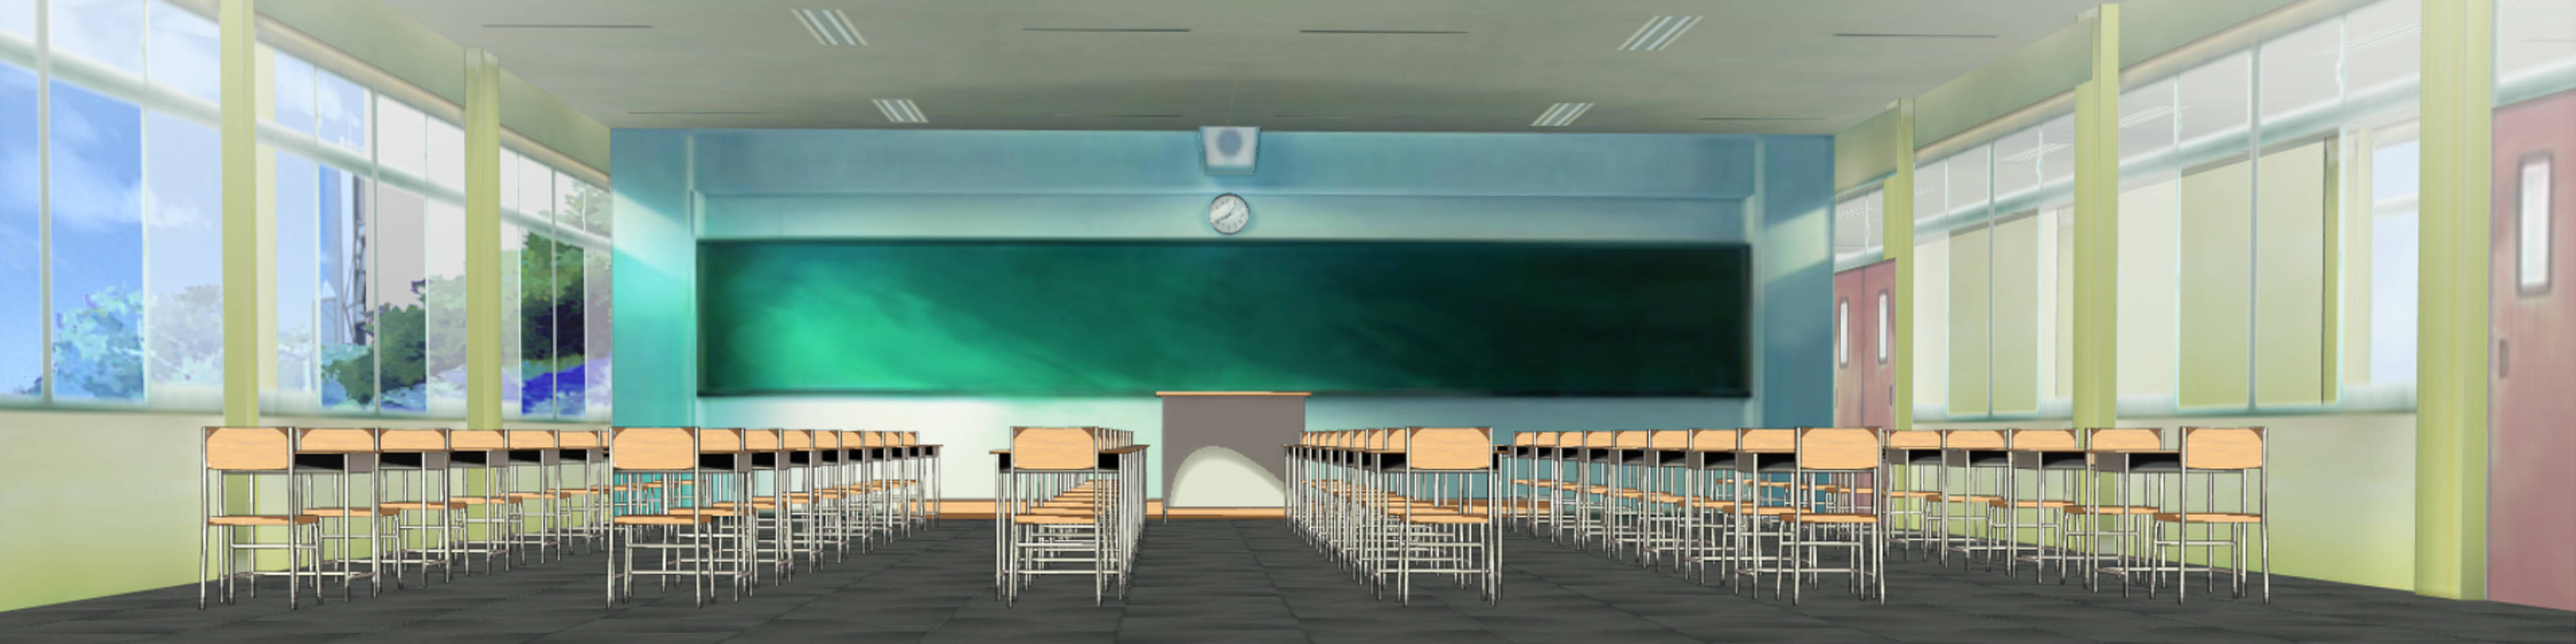
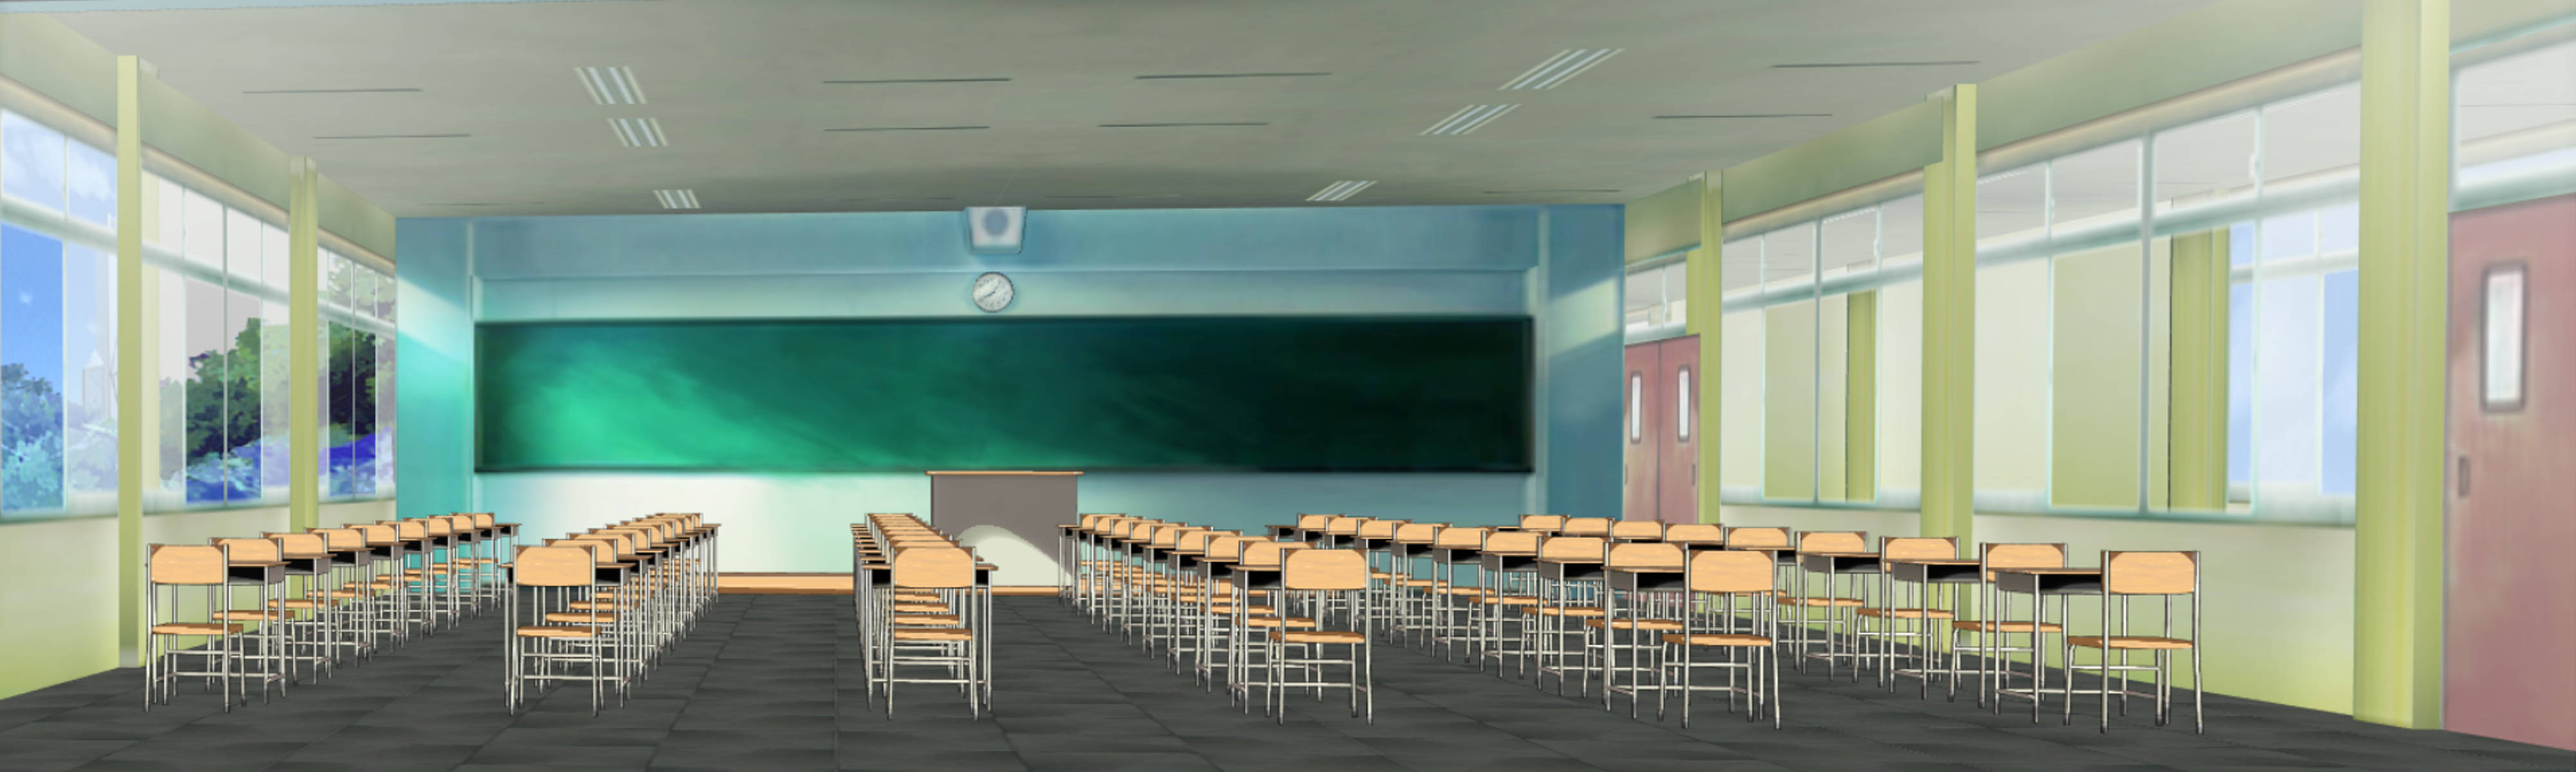
Platforms Test - Multiple Rooms
Platforms Test - Multiple Rooms

diff --git a/BondageClub/Screens/Room/Platform/Platform.js b/BondageClub/Screens/Room/Platform/Platform.js
@@ -1,12 +1,12 @@
 "use strict";
-//var PlatformBackground = "";
 var PlatformChar = [];
 var PlatformPlayer = null;
 var PlatformLastTime = null;
 var PlatformKeys = [];
-var PlatformFloor = 980;
+var PlatformFloor = 1180;
 var PlatformViewX = 0;
-var PlatformViewY = 0;
+var PlatformViewY = 200;
+var PlatformRoom = null;
 
 // Template for characters with their animations
 var PlatformTemplate = [
@@ -14,7 +14,7 @@ var PlatformTemplate = [
 		Name: "Kara",
 		Status: "Nude",
 		Health: 20,
-		HitBox: [-75, -475, 75, 0],
+		HitBox: [-60, -475, 120, 475],
 		Animation: [
 			{ Name: "Idle", Width: 250, Height: 500, Cycle: ["Idle0", "Idle1", "Idle2", "Idle3", "Idle2", "Idle1"], Speed: 500 },
 			{ Name: "Wounded", Width: 500, Height: 500, Cycle: ["Wounded0", "Wounded1", "Wounded2", "Wounded1"], Speed: 1000 },
@@ -22,19 +22,19 @@ var PlatformTemplate = [
 			{ Name: "Jump", Width: 250, Height: 500, Cycle: ["Jump0", "Jump1", "Jump2", "Jump3", "Jump2", "Jump1"], Speed: 250 },
 			{ Name: "Crouch", Width: 250, Height: 500, Cycle: ["Crouch0", "Crouch1", "Crouch2", "Crouch3", "Crouch2", "Crouch1"], Speed: 400 },
 			{ Name: "Crawl", Width: 500, Height: 500, Cycle: ["Crawl0", "Crawl1", "Crawl2", "Crawl3", "Crawl2", "Crawl1"], Speed: 300 },
-			{ Name: "Punch", Width: 500, Height: 500, Cycle: ["Punch0", "Punch1", "Punch2", "Punch3", "Punch3", "Punch3", "Punch3", "Punch2", "Punch1", "Punch0"], Speed: 50 },
-			{ Name: "Sweep", Width: 500, Height: 500, Cycle: ["Sweep0", "Sweep1", "Sweep2", "Sweep3", "Sweep3", "Sweep3", "Sweep3", "Sweep2", "Sweep1", "Sweep0"], Speed: 50 }
+			{ Name: "Punch", Width: 500, Height: 500, Cycle: ["Punch0", "Punch1", "Punch2", "Punch3", "Punch3", "Punch3", "Punch3", "Punch2", "Punch1", "Punch0"], Speed: 40 },
+			{ Name: "Sweep", Width: 500, Height: 500, Cycle: ["Sweep0", "Sweep1", "Sweep2", "Sweep3", "Sweep3", "Sweep3", "Sweep3", "Sweep2", "Sweep1", "Sweep0"], Speed: 60 }
 		], 
 		Attack: [
-			{ Name: "Punch", HitX: 150, HitY: -350, Animation: ["Punch3"], Damage: 2 },
-			{ Name: "Sweep", HitX: 225, HitY: -140, Animation: ["Sweep3"], Damage: 3 }
+			{ Name: "Punch", HitBox: [135, -365, 30, 30], Animation: "Punch3", Damage: 2, Speed: 400, Stand: true },
+			{ Name: "Sweep", HitBox: [190, -150, 55, 30], Animation: "Sweep3", Damage: 3, Speed: 600, Crouch: true }
 		]
 	},
 	{
 		Name: "Liane",
 		Status: "School",
 		Health: 20,
-		HitBox: [-75, -475, 75, 0],
+		HitBox: [-60, -475, 120, 475],
 		Animation: [
 			{ Name: "Idle", Width: 250, Height: 500, Cycle: ["Idle0", "Idle1", "Idle2", "Idle3", "Idle2", "Idle1"], Speed: 500 },
 			{ Name: "Wounded", Width: 500, Height: 500, Cycle: ["Wounded0", "Wounded1", "Wounded2", "Wounded1"], Speed: 1000 },
@@ -42,17 +42,68 @@ var PlatformTemplate = [
 			{ Name: "Jump", Width: 250, Height: 500, Cycle: ["Jump0", "Jump1", "Jump2", "Jump3", "Jump2", "Jump1"], Speed: 250 },
 			{ Name: "Crouch", Width: 250, Height: 500, Cycle: ["Crouch0", "Crouch1", "Crouch2", "Crouch3", "Crouch2", "Crouch1"], Speed: 400 },
 			{ Name: "Crawl", Width: 500, Height: 500, Cycle: ["Crawl0", "Crawl1", "Crawl2", "Crawl3", "Crawl2", "Crawl1"], Speed: 300 },
-			{ Name: "Punch", Width: 500, Height: 500, Cycle: ["Punch0", "Punch1", "Punch2", "Punch3", "Punch3", "Punch3", "Punch3", "Punch2", "Punch1", "Punch0"], Speed: 50 },
-			{ Name: "Sweep", Width: 500, Height: 500, Cycle: ["Sweep0", "Sweep1", "Sweep2", "Sweep3", "Sweep3", "Sweep3", "Sweep3", "Sweep2", "Sweep1", "Sweep0"], Speed: 50 }
+			{ Name: "Punch", Width: 500, Height: 500, Cycle: ["Punch0", "Punch1", "Punch2", "Punch3", "Punch3", "Punch3", "Punch3", "Punch2", "Punch1", "Punch0"], Speed: 40 },
+			{ Name: "Sweep", Width: 500, Height: 500, Cycle: ["Sweep0", "Sweep1", "Sweep2", "Sweep3", "Sweep3", "Sweep3", "Sweep3", "Sweep2", "Sweep1", "Sweep0"], Speed: 60 }
 		],
 		Attack: [
-			{ Name: "Punch", HitX: 150, HitY: -350, Animation: "Punch3", Damage: 2 },
-			{ Name: "Sweep", HitX: 225, HitY: -140, Animation: "Sweep3", Damage: 3 }
+			{ Name: "Punch", HitBox: [135, -365, 30, 30], Animation: "Punch3", Damage: 2, Speed: 400, Stand: true },
+			{ Name: "Sweep", HitBox: [190, -150, 55, 30], Animation: "Sweep3", Damage: 3, Speed: 600, Crouch: true }
 		]
 	}
 ];
 
-function PlatformCreateCharacter(TemplateName, IsPlayer, X, Y) {
+// All available rooms
+var PlatformRoomList = [
+	{
+		Name: "Class",
+		Background: "CollegeClassWide",
+		Width: 4000,
+		Height: 1200,
+		Door: [
+			{ Name: "Hall", FromX: 3800, FromY: 500, FromW: 200, FromH: 700, ToX: 100, ToFaceLeft: false }
+		],
+		Character: [
+			{ Name: "Liane", X: 2500 }
+		]
+	},
+	{
+		Name: "Hall",
+		Background: "CollegeHallWide",
+		Width: 3500,
+		Height: 1200,
+		Door: [
+			{ Name: "Class", FromX: 0, FromY: 500, FromW: 300, FromH: 700, ToX: 3900, ToFaceLeft: true },
+			{ Name: "Art", FromX: 3200, FromY: 500, FromW: 300, FromH: 700, ToX: 100, ToFaceLeft: false }
+		],
+		Character: [
+			{ Name: "Liane", X: 1400 },
+			{ Name: "Liane", X: 2100 }
+		]
+	},
+	{
+		Name: "Art",
+		Background: "CollegeArtWide",
+		Width: 4000,
+		Height: 1200,
+		Door: [
+			{ Name: "Hall", FromX: 0, FromY: 500, FromW: 200, FromH: 700, ToX: 3900, ToFaceLeft: true }
+		],
+		Character: [
+			{ Name: "Liane", X: 1700 },
+			{ Name: "Liane", X: 2700 },
+			{ Name: "Liane", X: 3700 }
+		]
+	}
+]
+
+/**
+ * Loads a room and it's parameters
+ * @param {String} TemplateName - The template name of the character to load
+ * @param {Boolean} RoomName - The name of the room to load
+ * @param {Number}X - The X position of the character
+ * @returns {void} - Nothing
+ */
+function PlatformCreateCharacter(TemplateName, IsPlayer, X) {
 	let NewChar = null;
 	for (let Template of PlatformTemplate)
 		if (Template.Name == TemplateName)
@@ -60,12 +111,27 @@ function PlatformCreateCharacter(TemplateName, IsPlayer, X, Y) {
 	if (IsPlayer) NewChar.Camera = true;
 	NewChar.ID = PlatformChar.length;
 	NewChar.X = X;
-	NewChar.Y = Y;
+	NewChar.Y = PlatformFloor;
 	NewChar.ForceX = 0;
 	NewChar.ForceY = 0;
-	NewChar.FaceLeft = (X > 2000);
+	NewChar.FaceLeft = ((PlatformRoom != null) && (PlatformRoom.Width != null) && (X > PlatformRoom.Width / 2));
 	PlatformChar.push(NewChar);
 	if (IsPlayer) PlatformPlayer = NewChar;
+}
+
+/**
+ * Loads a room and it's parameters
+ * @param {Object} RoomName - The name of the room to load
+ * @returns {void} - Nothing
+ */
+function PlatformLoadRoom(RoomName) {
+	PlatformRoom = null;
+	for (let Room of PlatformRoomList)
+		if (Room.Name == RoomName)
+			PlatformRoom = Room;
+	PlatformChar.splice(1, 100);
+	for (let Char of PlatformRoom.Character)
+		PlatformCreateCharacter(Char.Name, false, Char.X);
 }
 
 /**
@@ -76,12 +142,10 @@ function PlatformLoad() {
 	window.addEventListener("keydown", PlatformEventKeyDown);
 	window.addEventListener("keyup", PlatformEventKeyUp);
 	PlatformChar = [];
-	PlatformCreateCharacter("Kara", true, 300, PlatformFloor);
-	PlatformCreateCharacter("Liane", false, 2500, PlatformFloor);
-	PlatformCreateCharacter("Liane", false, 3700, PlatformFloor);
+	PlatformCreateCharacter("Kara", true, 300);
+	PlatformLoadRoom("Class");
 }
 
-// 
 /**
  * Get the proper animation from the cycle to draw
  * @param {PlatformCharacter} C - The character to evaluate
@@ -114,9 +178,11 @@ function PlatformGetAnim(C, Pose, Cycle) {
 function PlatformDrawBackground() {
 	PlatformViewX = PlatformPlayer.X - 1000;
 	if (PlatformViewX < 0) PlatformViewX = 0;
-	if (PlatformViewX > 2000) PlatformViewX = 2000;
-	PlatformViewY = 0;
-	DrawImageZoomCanvas("Backgrounds/CollegeClassWide.jpg", MainCanvas, PlatformViewX, PlatformViewY, 2000, 1000, 0, 0, 2000, 1000);
+	if (PlatformViewX > PlatformRoom.Width - 2000) PlatformViewX = PlatformRoom.Width - 2000;
+	PlatformViewY = PlatformPlayer.Y - 500;
+	if (PlatformViewY < 0) PlatformViewY = 0;
+	if (PlatformViewY > PlatformRoom.Height - 1000) PlatformViewY = PlatformRoom.Height - 1000;
+	DrawImageZoomCanvas("Backgrounds/" + PlatformRoom.Background + ".jpg", MainCanvas, PlatformViewX, PlatformViewY, 2000, 1000, 0, 0, 2000, 1000);
 }
 
 /**
@@ -153,6 +219,32 @@ function PlatformDamage(Source, Target, Damage, Time) {
 }
 
 /**
+ * Checks if the hitbox of an attack clashes with a hitbox of the target
+ * @param {Object} Source - The character doing the damage
+ * @param {Object} Target - The character getting the damage
+ * @param {Array} HitBox - The hitbox of the attack
+ * @returns {boolean} - TRUE if there's a clash
+ */
+function PlatformHitBoxClash(Source, Target, HitBox) {
+	if ((Source == null) || (Target == null) || (HitBox == null)) return;
+	let SX1 = Source.X + HitBox[0] * ((Source.FaceLeft) ? -1 : 1);
+	let SX2 = SX1 + HitBox[2] * ((Source.FaceLeft) ? -1 : 1);
+	if (SX1 > SX2) { let Back = SX2; SX2 = SX1; SX1 = Back; };
+	let SY1 = Source.Y + HitBox[1];
+	let SY2 = SY1 + HitBox[3];
+	let TX1 = Target.X + Target.HitBox[0] * ((Target.FaceLeft) ? -1 : 1);
+	let TX2 = TX1 + Target.HitBox[2] * ((Target.FaceLeft) ? -1 : 1);
+	if (TX1 > TX2) { let Back = TX2; TX2 = TX1; TX1 = Back; };
+	let TY1 = Target.Y + Target.HitBox[1];
+	let TY2 = TY1 + Target.HitBox[3];
+	if ((SX1 >= TX1) && (SY1 >= TY1) && (SX1 <= TX2) && (SY1 <= TY2)) return true;
+	if ((SX2 >= TX1) && (SY1 >= TY1) && (SX2 <= TX2) && (SY1 <= TY2)) return true;
+	if ((SX1 >= TX1) && (SY2 >= TY1) && (SX1 <= TX2) && (SY2 <= TY2)) return true;
+	if ((SX2 >= TX1) && (SY2 >= TY1) && (SX2 <= TX2) && (SY2 <= TY2)) return true;
+	return false;
+}
+
+/**
  * Checks if the character action can attack someone else
  * @param {Object} Source - The character doing the action
  * @param {Number} Time - The current time when the action is done
@@ -162,18 +254,15 @@ function PlatformProcessAction(Source, Time) {
 	if ((Source == null) || (Source.Anim == null) || (Source.Anim.Name == null) || (Source.Anim.Image == null)) return;
 	for (let Target of PlatformChar)
 		if ((Target.ID != Source.ID) && (Target.Health > 0) && ((Target.Immunity == null) || (Target.Immunity < Time))) {
-			let HitX = -1000;
-			let HitY = -1000;
+			let HitBox = null;
 			let Damage = 0;
 			for (let Attack of Source.Attack)
 				if ((Attack.Name == Source.Anim.Name) && (Attack.Animation == Source.Anim.Image)) {
 					Damage = Attack.Damage;
-					HitX = Source.X + Attack.HitX * ((Source.FaceLeft) ? -1 : 1);
-					HitY = Source.Y + Attack.HitY;
+					HitBox = Attack.HitBox;
 					break;
 				}
-			if ((HitX >= Target.X + Target.HitBox[0]) && (HitY >= Target.Y + Target.HitBox[1]) && (HitX <= Target.X + Target.HitBox[2]) && (HitY <= Target.Y + Target.HitBox[3]))
-				return PlatformDamage(Source, Target, Damage, Time);
+			if (PlatformHitBoxClash(Source, Target, HitBox)) return PlatformDamage(Source, Target, Damage, Time);
 		}	
 }
 
@@ -211,7 +300,7 @@ function PlatformDraw() {
 
 	// Jump
 	if ((PlatformKeys.indexOf(32) >= 0) && (PlatformPlayer.Y == PlatformFloor))
-		PlatformPlayer.ForceY = -45;
+		PlatformPlayer.ForceY = -52;
 
 	// Release jump
 	if ((PlatformKeys.indexOf(32) < 0) && (PlatformPlayer.ForceY < 0))
@@ -233,7 +322,7 @@ function PlatformDraw() {
 					C.ForceX = 0;
 				} else C.ForceX = C.ForceX - Math.round((PlatformTime - PlatformLastTime) / 8);
 			} else {
-				if (C.X >= 3700) {
+				if (C.X >= PlatformRoom.Width - 300) {
 					C.FaceLeft = true;
 					C.ForceX = 0;
 				} else C.ForceX = C.ForceX + Math.round((PlatformTime - PlatformLastTime) / 8);
@@ -243,7 +332,7 @@ function PlatformDraw() {
 		// Applies the forces and turns the face
 		C.X = C.X + C.ForceX;
 		if (C.X < 100) C.X = 100;
-		if (C.X >= 3900) C.X = 3900;
+		if (C.X > PlatformRoom.Width - 100) C.X = PlatformRoom.Width - 100;
 		C.Y = C.Y + C.ForceY;
 		if (C.Y >= PlatformFloor) C.Y = PlatformFloor;
 		if (C.ForceX < 0) C.FaceLeft = true;
@@ -295,7 +384,9 @@ function PlatformRun() {
  * @returns {void} - Nothing
  */
 function PlatformAttack(Source, Type) {
-	Source.Action = { Name: Type, Start: CommonTime(), Expire: CommonTime() + 500 };
+	for (let Attack of Source.Attack)
+		if (Attack.Name == Type)
+			Source.Action = { Name: Type, Start: CommonTime(), Expire: CommonTime() + Attack.Speed };
 }
 
 /**
@@ -304,7 +395,8 @@ function PlatformAttack(Source, Type) {
  */
 function PlatformClick() {
 	if (MouseIn(1885, 25, 90, 90) && Player.CanWalk()) return PlatformExit();
-	PlatformAttack(PlatformPlayer, ((PlatformKeys.indexOf(83) >= 0) || (PlatformKeys.indexOf(115) >= 0)) ? "Sweep" : "Punch" );
+	if ((PlatformPlayer.Action == null) || (PlatformPlayer.Action.Expire == null) || (PlatformPlayer.Action.Expire < CommonTime()))
+		PlatformAttack(PlatformPlayer, ((PlatformKeys.indexOf(83) >= 0) || (PlatformKeys.indexOf(115) >= 0)) ? "Sweep" : "Punch");
 }
 
 /**
@@ -318,12 +410,28 @@ function PlatformExit() {
 }
 
 /**
+ * If there's a door, the player can enter it with the W key
+ * @returns {void} - Nothing
+ */
+function PlatformEnterDoor() {
+	if ((PlatformRoom == null) || (PlatformRoom.Door == null)) return;
+	for (let Door of PlatformRoom.Door)
+		if ((PlatformPlayer.X >= Door.FromX) && (PlatformPlayer.X <= Door.FromX + Door.FromW) && (PlatformPlayer.Y >= Door.FromY) && (PlatformPlayer.Y <= Door.FromY + Door.FromH)) {
+			PlatformLoadRoom(Door.Name);
+			PlatformPlayer.X = Door.ToX;
+			PlatformPlayer.FaceLeft = Door.ToFaceLeft;
+			return;
+		}
+}
+
+/**
  * Handles keys pressed
  * @param {Event} e - The key pressed
  * @returns {void} - Nothing
  */
 function PlatformEventKeyDown(e) {
 	if (e.keyCode == 32) PlatformPlayer.Action = null;
+	if ((e.keyCode == 87) || (e.keyCode == 119)) return PlatformEnterDoor();
 	if (PlatformKeys.indexOf(e.keyCode) < 0) PlatformKeys.push(e.keyCode);
 }
 
